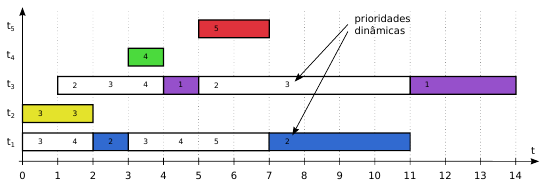
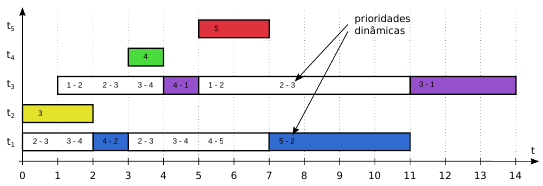
Adaptação da imagem 14 (PRIOd) do Maziero.

diff --git a/computer fundamentals/operating systems/Sistemas Operacionais (portuguese).md b/computer fundamentals/operating systems/Sistemas Operacionais (portuguese).md
@@ -326,7 +326,7 @@ Considere a seguinte tabela de tarefas para exemplificar o funcionamento dos alg
     - **Retorno ao padrão:** Quando a tarefa finalmente é executada, sua prioridade volta para o seu valor base original.
 
 ![Escalonamento PRIOd](images/screenshot014.png)<br>
-*Fonte: MAZIERO, Carlos A. Sistemas Operacionais: Conceitos e Mecanismos, 1ª ed., 2019, p. 80.*
+*Fonte: **Adaptado** de MAZIERO, Carlos A. Sistemas Operacionais: Conceitos e Mecanismos, 1ª ed., 2019, p. 80.*
 
 **Comparação entre os algoritmos:**
 
